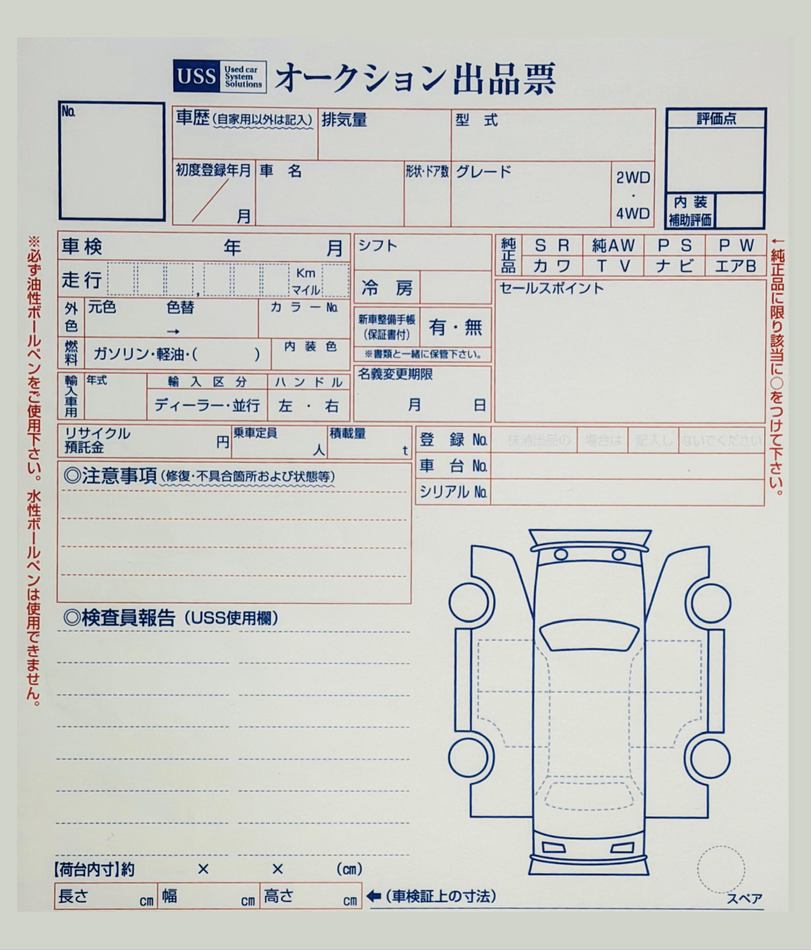
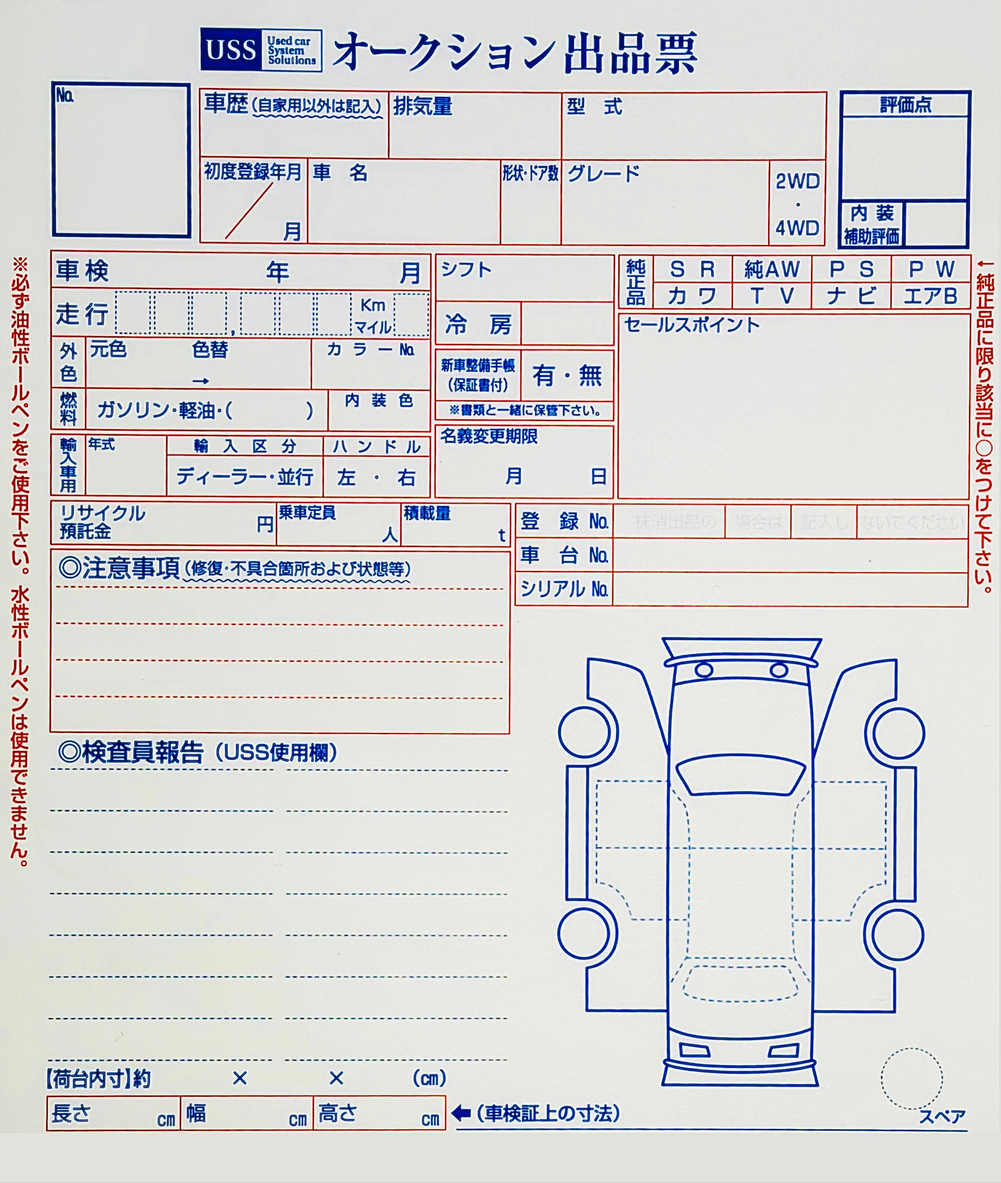
Rename Auction Sourcing to Auction Search, add images, fix borders
- Rename step 2 to "Auction Search" on Japan Sourcing page
- Add auction search image to step 2 on both Japan Sourcing and Global Export
- Replace auction sheet image with edited version on Info page
- Remove black borders from step 3 & 4 images on Japan Sourcing

diff --git a/src/pages/JapanSourcing.tsx b/src/pages/JapanSourcing.tsx
@@ -11,9 +11,10 @@ const STEPS = [
   },
   {
     num: '02',
-    title: 'Auction Sourcing',
+    title: 'Auction Search',
     desc: 'Vehicles are sourced through Japan\'s dealer-only auction network, where most used vehicles are processed before reaching dealerships.',
     details: ['Verified condition, mileage, and inspection reports', 'Suitable vehicles identified and presented for review'],
+    image: '/auction-search.jpeg',
   },
   {
     num: '03',
@@ -195,8 +196,8 @@ export default function JapanSourcing() {
                   )}
 
                   {step.image && (
-                    <div className="mt-6 bg-surface-lowest p-2 border border-white/5 overflow-hidden">
-                      <img src={step.image} alt={step.title} className="w-full h-auto object-contain" />
+                    <div className="mt-6 overflow-hidden rounded-sm">
+                      <img src={step.image} alt={step.title} className="w-full h-auto object-cover" />
                     </div>
                   )}
 

diff --git a/src/pages/GlobalExport.tsx b/src/pages/GlobalExport.tsx
@@ -14,6 +14,7 @@ const STEPS = [
     title: 'Auction Search',
     desc: 'With access to 140+ auction houses across Japan, we source vehicles directly from the market based on your requirements.',
     details: ['Real-time sourcing from auctions', 'Additional access through dealer and private networks'],
+    image: '/auction-search.jpeg',
   },
   {
     num: '03',
